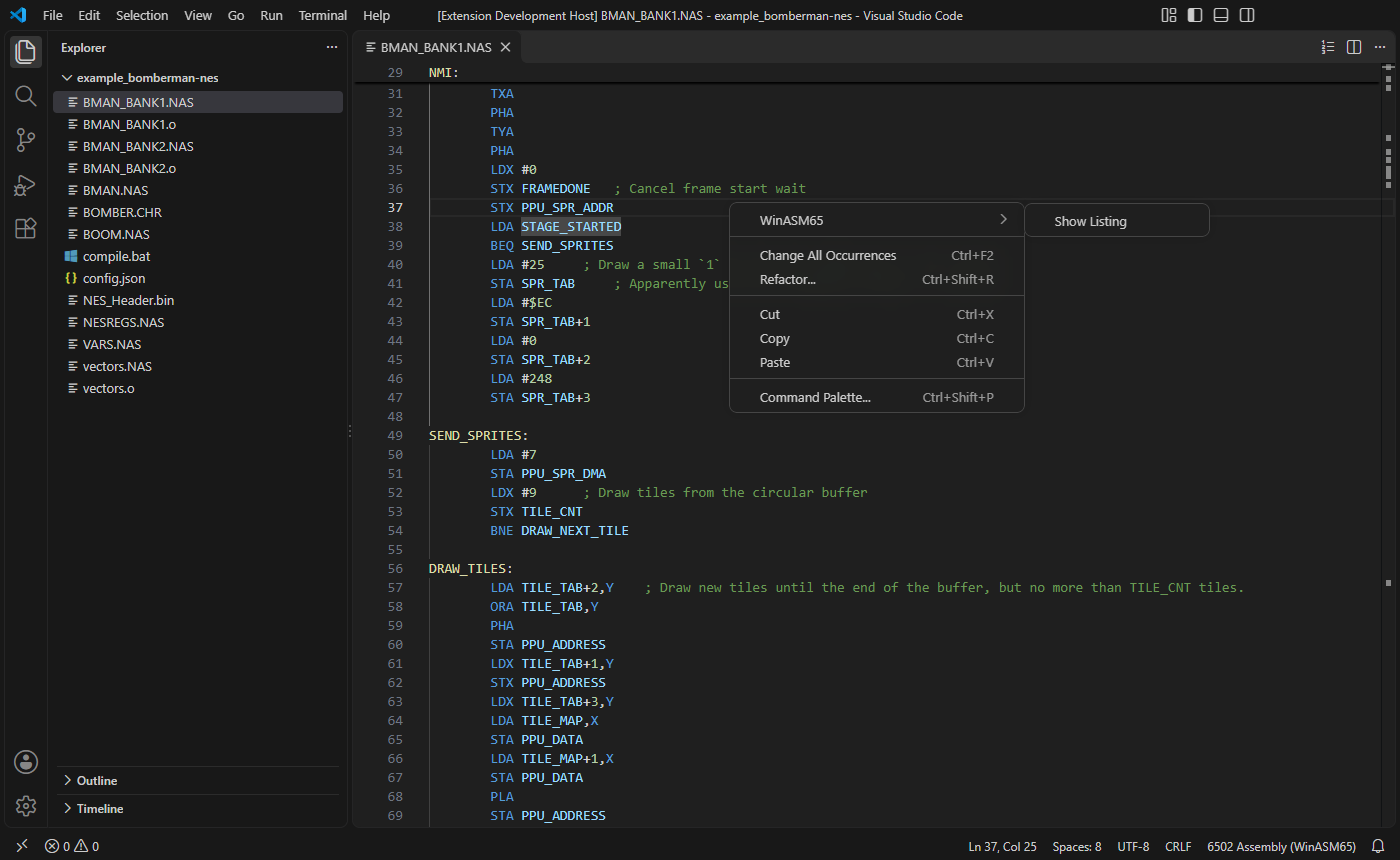
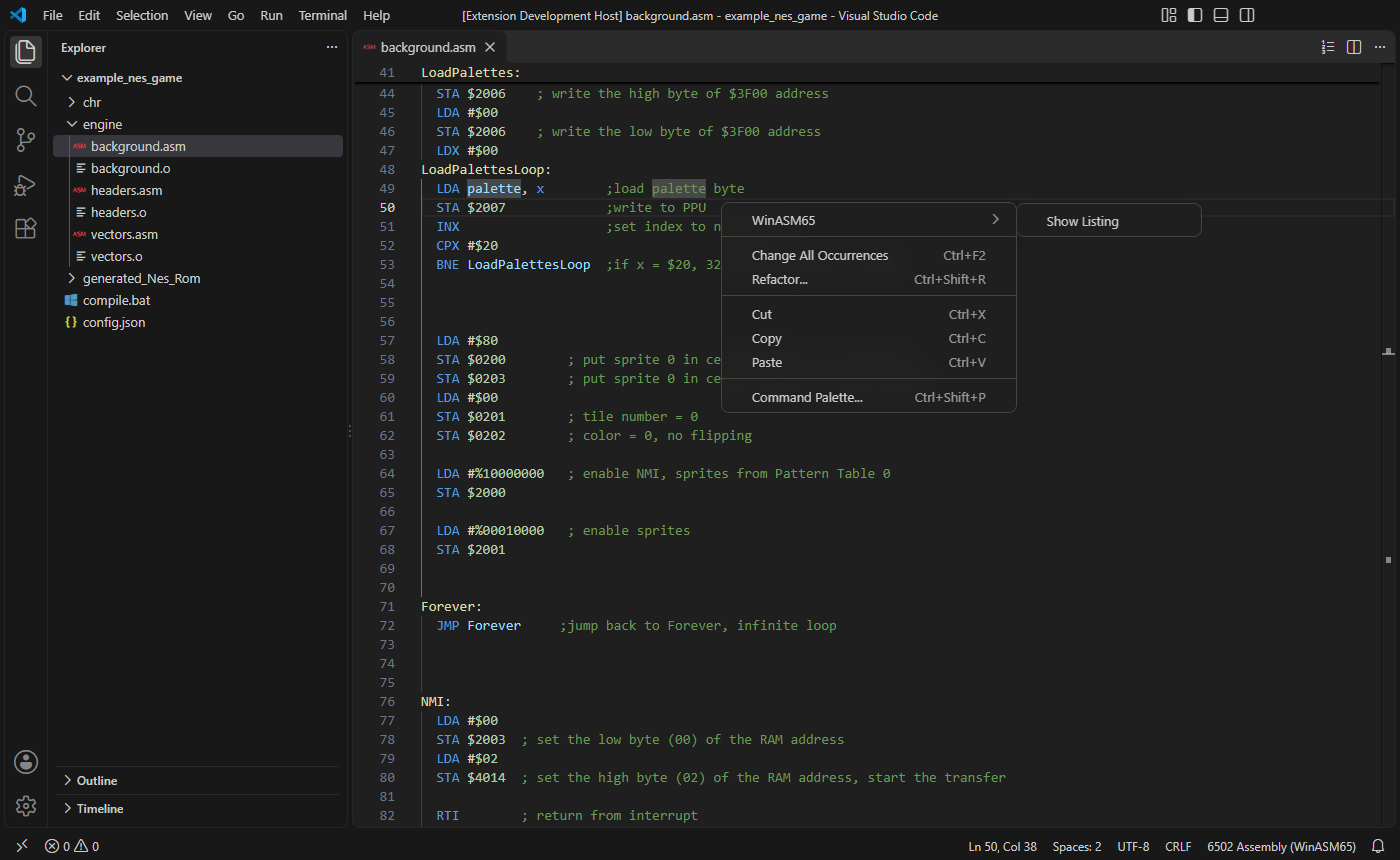
docs(site): screenshots and examples on example_nes_game instead of Bomberman
The scripts drive the NES example (background.asm, breakpoint in NMI at
$C073) and the pages describe the new pictures. The hover is opened with
its keyboard shortcut so the pointer never closes it.

diff --git a/docs/site/monitor.html b/docs/site/monitor.html
@@ -40,7 +40,7 @@
 
     <figure class="shot">
       <a href="img/monitor-tui.png"><img src="img/monitor-tui.png" alt="The terminal monitor connected to Mesen2 2.1.1: status line, file tree, source and listing, RAM and ROM panes"></a>
-      <figcaption>The monitor on the Bomberman example, started with <code>--emulator mesen2</code>. The status line reads: host <code>Mesen2 2.1.1</code>, <code>connected</code>, <code>RAM: Live</code> (the bridge is pushing RAM changes), <code>RUNNING</code>, <code>caps: full control</code>, then the program counter, the registers, the cycle count and the breakpoint count. Below: the file tree, the source with its listing gutter (address, bytes, cycles), and the RAM ($0000–$3FFF) and ROM ($8000–$FFFF) panes.</figcaption>
+      <figcaption>The monitor on the NES example (<code>example_nes_game</code>), started with <code>--emulator mesen2</code>. The status line reads: host <code>Mesen2 2.1.1</code>, <code>connected</code>, <code>RAM: Live</code> (the bridge is pushing RAM changes), <code>RUNNING</code>, <code>caps: full control</code>, then the program counter, the registers, the cycle count and the breakpoint count. Below: the file tree, the source with its listing gutter (address, bytes, cycles), and the RAM ($0000–$3FFF) and ROM ($8000–$FFFF) panes.</figcaption>
     </figure>
 
     <h2 id="projects">Three projects</h2>
@@ -197,7 +197,7 @@
     <p>When no bridge answers, the monitor still starts, on <code>DummyBridgeBackend</code>: name <code>Dummy 0.0</code>, reads return zeros, writes and execution commands are ignored, <code>IsConnected</code> is false. It does not implement <code>IExecutionAdapter</code>, so its capability set is <code>None</code> and the status line says <code>caps: nothing measured</code>.</p>
 
     <h2 id="startup">Starting the monitor</h2>
-    <pre><code>WinASM65.Monitor --emulator mesen2 --mesen C:\Mesen2\Mesen.exe --rom bomber.nes --source BMAN_BANK1.NAS
+    <pre><code>WinASM65.Monitor --emulator mesen2 --mesen C:\Mesen2\Mesen.exe --rom generated_Nes_Rom/game.nes --source engine/background.asm
 WinASM65.Monitor --port 45678          # attach to a bridge that is already listening
 WinASM65.Monitor --repl &lt; commands.txt # line mode</code></pre>
     <div class="table-wrap">
@@ -257,10 +257,10 @@ WinASM65.Monitor --repl &lt; commands.txt # line mode</code></pre>
         <tr><td><code>STATUS</code></td><td><code>OK running</code> or <code>OK stopped &lt;stop&gt;</code></td><td>yes</td><td><code>ERR unknown command</code></td></tr>
         <tr><td><code>READ $addr len</code></td><td><code>OK &lt;hex&gt;</code>; len ≤ 4096</td><td>yes</td><td>yes</td></tr>
         <tr><td><code>WRITE $addr hex</code></td><td><code>OK</code>, after reading the bytes back; <code>ERR write not observable at $…</code> otherwise (PRG ROM drops writes)</td><td>yes</td><td>yes</td></tr>
-        <tr><td><code>CPU</code></td><td><code>OK pc=$C01A a=… x=… y=… sp=… ps=… cycles=…</code></td><td>yes</td><td>refused by the host (<code>emu.getCpuState</code> does not exist)</td></tr>
+        <tr><td><code>CPU</code></td><td><code>OK pc=$C073 a=… x=… y=… sp=… ps=… cycles=…</code></td><td>yes</td><td>refused by the host (<code>emu.getCpuState</code> does not exist)</td></tr>
         <tr><td><code>ROM</code> · <code>ROM LOAD path</code></td><td>cartridge fields as <code>key=value</code>; load a new image</td><td><code>ROM</code> yes; <code>ROM LOAD</code> only if the host has <code>emu.loadRom</code></td><td><code>ROM</code> yes</td></tr>
         <tr><td><code>PAUSE</code> · <code>RESUME</code> · <code>STEP</code> · <code>RESET</code></td><td><code>OK</code></td><td>yes</td><td><code>ERR … unavailable: &lt;measured reason&gt;</code></td></tr>
-        <tr><td><code>BREAK SET|REMOVE kind $addr</code>, <code>BREAK LIST</code>, <code>BREAK CLEAR</code></td><td><code>OK</code>; <code>LIST</code> gives <code>exec $C01A, …</code> or <code>none</code></td><td>yes</td><td><code>ERR BREAK unavailable: …</code></td></tr>
+        <tr><td><code>BREAK SET|REMOVE kind $addr</code>, <code>BREAK LIST</code>, <code>BREAK CLEAR</code></td><td><code>OK</code>; <code>LIST</code> gives <code>exec $C073, …</code> or <code>none</code></td><td>yes</td><td><code>ERR BREAK unavailable: …</code></td></tr>
         <tr><td><code>STATE SAVE</code> · <code>STATE LOAD hex</code></td><td><code>OK &lt;hex&gt;</code> · <code>OK</code>; ≤ 128 KiB</td><td>yes</td><td>yes</td></tr>
       </tbody>
     </table>
@@ -344,16 +344,16 @@ WinASM65.Monitor --repl &lt; commands.txt # line mode</code></pre>
         <rect class="box-c" x="614" y="335" width="12" height="315" rx="2"/>
 
         <path class="line" d="M100,110 L318,110" marker-end="url(#arrow-s)"/>
-        <text x="210" y="103" text-anchor="middle" font-size="12">AddBreakpoint($C01A, exec)</text>
+        <text x="210" y="103" text-anchor="middle" font-size="12">AddBreakpoint($C073, exec)</text>
         <path class="line" d="M320,145 L618,145" marker-end="url(#arrow-s)"/>
-        <text x="470" y="138" text-anchor="middle" font-size="12">BREAK SET exec $C01A</text>
+        <text x="470" y="138" text-anchor="middle" font-size="12">BREAK SET exec $C073</text>
         <path class="line" d="M620,180 L868,180" marker-end="url(#arrow-s)"/>
         <text x="745" y="173" text-anchor="middle" font-size="12">emu.addMemoryCallback(exec)</text>
         <path class="line" d="M620,215 L322,215" marker-end="url(#arrow-s)"/>
         <text x="470" y="208" text-anchor="middle" font-size="12">OK</text>
 
         <rect class="box-a" x="790" y="236" width="160" height="24" rx="5"/>
-        <text x="870" y="252" text-anchor="middle" font-size="12">opcode fetch at $C01A</text>
+        <text x="870" y="252" text-anchor="middle" font-size="12">opcode fetch at $C073</text>
 
         <path class="line" d="M870,295 L622,295" marker-end="url(#arrow-s)"/>
         <text x="745" y="274" text-anchor="middle" font-size="12">exec callback fires:</text>
@@ -365,7 +365,7 @@ WinASM65.Monitor --repl &lt; commands.txt # line mode</code></pre>
         <path class="line" d="M614,370 L322,370" marker-end="url(#arrow-s)"/>
         <text x="470" y="363" text-anchor="middle" font-size="12">PUSH RAM $addr:byte … (pending writes)</text>
         <path class="line" d="M614,405 L322,405" marker-end="url(#arrow-s)"/>
-        <text x="470" y="398" text-anchor="middle" font-size="12">PUSH STOPPED reason=breakpoint pc=$C01A prg=…</text>
+        <text x="470" y="398" text-anchor="middle" font-size="12">PUSH STOPPED reason=breakpoint pc=$C073 prg=…</text>
         <path class="line" d="M320,440 L102,440" marker-end="url(#arrow-s)"/>
         <text x="210" y="433" text-anchor="middle" font-size="12">Stopped(StopInfo)</text>
         <text x="210" y="456" text-anchor="middle" class="muted" font-size="11">on the receiver thread</text>
@@ -375,7 +375,7 @@ WinASM65.Monitor --repl &lt; commands.txt # line mode</code></pre>
         <path class="line" d="M320,515 L612,515" marker-end="url(#arrow-s)"/>
         <text x="470" y="508" text-anchor="middle" font-size="12">CPU, READ $addr len</text>
         <path class="line" d="M614,545 L322,545" marker-end="url(#arrow-s)"/>
-        <text x="470" y="538" text-anchor="middle" font-size="12">OK pc=$C01A a=… cycles=… · OK &lt;hex&gt;</text>
+        <text x="470" y="538" text-anchor="middle" font-size="12">OK pc=$C073 a=… cycles=… · OK &lt;hex&gt;</text>
 
         <path class="line" d="M100,580 L318,580" marker-end="url(#arrow-s)"/>
         <text x="210" y="573" text-anchor="middle" font-size="12">Resume()</text>
@@ -444,7 +444,7 @@ WinASM65.Monitor --repl &lt; commands.txt # line mode</code></pre>
         <tr><td>Files</td><td><code>FileTreePane</code>, <code>FileTreeModel</code></td><td>Sections <em>sources</em>, <em>project files</em>, <em>ROM images</em>, <em>units</em>; activating a source opens it; right-click opens a menu.</td></tr>
         <tr><td>Editor</td><td><code>SourceEditorTabs</code>, <code>SourceEditorPane</code>, <code>SourceDocument</code>, <code>ListingFormatter</code>, <code>AssemblerSyntaxHighlighter</code>, <code>JsonSyntaxHighlighter</code></td><td>One tab per file; an editable source with a read-only gutter of address, bytes and cycles. Saving keeps the file's encoding and line endings.</td></tr>
         <tr><td>Memory</td><td><code>RamPane</code>, <code>RamDump</code>, <code>RamEditing</code>, <code>RomPane</code></td><td>RAM $0000–$3FFF with the zero page and stack marked, refreshed from <code>RamChanged</code>; ROM $8000–$FFFF. <code>RamEditing</code> holds write-and-verify logic for in-place edits of $0000–$3FFF; only the tests call it so far.</td></tr>
-        <tr><td>Commands</td><td><code>EditorCommands</code>, <code>StateCommands</code></td><td>Build the exact lines the keys send, e.g. <code>BREAK SET exec $C01A</code>, so tests can assert them.</td></tr>
+        <tr><td>Commands</td><td><code>EditorCommands</code>, <code>StateCommands</code></td><td>Build the exact lines the keys send, e.g. <code>BREAK SET exec $C073</code>, so tests can assert them.</td></tr>
         <tr><td>Capabilities</td><td><code>ShellKey</code>, <code>ShellCapabilities</code>, <code>Shortcut</code></td><td>Which key needs which capability, and the refusal wording.</td></tr>
         <tr><td>Theme</td><td><code>ShellTheme</code>, <code>ShellColorScheme</code>, <code>theme.json</code>, <code>ThemeRole</code> (Core)</td><td>A colour per role plus a 16-colour fallback. A broken file never replaces a working palette, and an unknown role is reported.</td></tr>
       </tbody>
@@ -505,7 +505,7 @@ WinASM65.Monitor --repl &lt; commands.txt # line mode</code></pre>
     </ul>
 
     <figure class="shot">
-      <a href="img/mesen2.png"><img src="img/mesen2.png" alt="The Mesen2 window running Bomberman"></a>
+      <a href="img/mesen2.png"><img src="img/mesen2.png" alt="The Mesen2 window running the NES example"></a>
       <figcaption>Mesen2 2.1.1 as <code>BridgeLauncher</code> starts it: its normal window, with the ROM loaded and <code>bridge_mesen2.lua</code> running.</figcaption>
     </figure>
 

diff --git a/docs/site/vscode.html b/docs/site/vscode.html
@@ -34,8 +34,8 @@
     </aside>
 
     <figure class="shot">
-      <a href="img/vscode-editor.png"><img src="img/vscode-editor.png" alt="VS Code with the Bomberman example open: the Explorer lists the .NAS sources and config.json, the editor shows BMAN_BANK1.NAS with mnemonics, labels, numbers and comments coloured"></a>
-      <figcaption>The Bomberman example in VS Code. <code>.nas</code> and <code>.asm</code> files open as “6502 Assembly (WinASM65)”, shown at the right of the status bar.</figcaption>
+      <a href="img/vscode-editor.png"><img src="img/vscode-editor.png" alt="VS Code with the NES example open: the Explorer lists the engine sources and config.json, the editor shows background.asm with mnemonics, labels, numbers and comments coloured"></a>
+      <figcaption>The NES example (<code>example_nes_game</code>) in VS Code. <code>.nas</code> and <code>.asm</code> files open as “6502 Assembly (WinASM65)”, shown at the right of the status bar.</figcaption>
     </figure>
 
     <h2 id="install">Install</h2>
@@ -80,11 +80,11 @@ code --install-extension winasm65-win32-x64-0.3.2.vsix --force</code></pre>
     <p>The language server answers hovers with a card laid out like a JSDoc hover. It is computed from the unsaved text, so it is right while you type.</p>
     <div class="grid-2">
       <figure class="shot">
-        <a href="img/vscode-hover-instruction.png"><img src="img/vscode-hover-instruction.png" alt="Hover card on LDA STAGE_STARTED: LDA — Load A, @mode zero page, @cycles 3, @bytes 2 — A5 60 at $C026, @flags N Z, and a table of the eight LDA forms with the zero-page form marked"></a>
+        <a href="img/vscode-hover-instruction.png"><img src="img/vscode-hover-instruction.png" alt="Hover card on LDA palette, x: LDA — Load A, @mode absolute,X, @cycles 4 (+1 if a page is crossed), @bytes 3 — BD 7E C0 at $C04B, @flags N Z, and a table of the eight LDA forms with the absolute,X form marked"></a>
         <figcaption>On a mnemonic (or anywhere on an instruction line that is not a name): what it does, the form this line assembled to with its cycles, bytes and address, the flags it changes, and every form of the instruction. ◀ marks the one used.</figcaption>
       </figure>
       <figure class="shot">
-        <a href="img/vscode-hover-symbol.png"><img src="img/vscode-hover-symbol.png" alt="Hover card on the name STAGE_STARTED: STAGE_STARTED = $60, @value $0060 (96), then the line LDA STAGE_STARTED with @cycles 3 cycles and @bytes 2 — A5 60 at $C026"></a>
+        <a href="img/vscode-hover-symbol.png"><img src="img/vscode-hover-symbol.png" alt="Hover card on the name palette: palette = $C07E, @value $C07E (49278), then the line LDA palette, x with @cycles 4 cycles and @bytes 3 — BD 7E C0 at $C04B"></a>
         <figcaption>On a name: its value in hex and decimal, then the line it is read on, with what that line assembled to.</figcaption>
       </figure>
     </div>
@@ -92,7 +92,7 @@ code --install-extension winasm65-win32-x64-0.3.2.vsix --force</code></pre>
 
     <h2 id="diagnostics">Diagnostics</h2>
     <figure class="shot">
-      <a href="img/vscode-diagnostics.png"><img src="img/vscode-diagnostics.png" alt="Three errors underlined in BMAN_BANK1.NAS, unsaved, and listed in the Problems panel: LDX does not support indirect indexed (zp),Y addressing; Malformed expression '(1+'; Undefined symbol: NOWHERE"></a>
+      <a href="img/vscode-diagnostics.png"><img src="img/vscode-diagnostics.png" alt="Three errors underlined in background.asm, unsaved, and listed in the Problems panel: LDX does not support indirect indexed (zp),Y addressing; Malformed expression '(1+'; Undefined symbol: NOWHERE"></a>
       <figcaption>Errors appear as you type, before the file is saved. Each names the rule that was broken.</figcaption>
     </figure>
     <ul>
@@ -110,7 +110,7 @@ code --install-extension winasm65-win32-x64-0.3.2.vsix --force</code></pre>
         <figcaption>Right-click → <strong>WinASM65</strong> → <strong>Show Listing</strong>. The same submenu is in the Explorer and the line-number margin; a button in the editor title bar does the same.</figcaption>
       </figure>
       <figure class="shot">
-        <a href="img/vscode-listing.png"><img src="img/vscode-listing.png" alt="BMAN_BANK1.NAS with a grey column left of the source: C01C 48, C01D 98, C026 A5 60, C023 8D 03 20 and so on, blank on labels and empty lines"></a>
+        <a href="img/vscode-listing.png"><img src="img/vscode-listing.png" alt="background.asm with a grey column left of the source: C04B BD 7E C0, C04E 8D 07 20, C051 E8 and so on, blank on labels and empty lines"></a>
         <figcaption>Each line shows the address and the bytes it assembled to, as in a <code>.lst</code> file. Lines without code get a blank column, so the source stays aligned.</figcaption>
       </figure>
     </div>
@@ -124,7 +124,7 @@ code --install-extension winasm65-win32-x64-0.3.2.vsix --force</code></pre>
 
     <h2 id="build">Build task</h2>
     <figure class="shot">
-      <a href="img/vscode-build.png"><img src="img/vscode-build.png" alt="The terminal panel running the task build config.json: WinASM65.Tooling.exe --build …\config.json, then built …\bomber.nes (24592 bytes)"></a>
+      <a href="img/vscode-build.png"><img src="img/vscode-build.png" alt="The terminal panel running the task build config.json: WinASM65.Tooling.exe --build …\config.json, then built …\generated_Nes_Rom/game.nes (24592 bytes)"></a>
       <figcaption><strong>Terminal › Run Build Task</strong> offers “build config.json” for each project in the workspace. It runs <code>WinASM65.Tooling --build</code>; errors go to the Problems panel.</figcaption>
     </figure>
     <p><code>BuildTaskProvider</code> finds up to 20 <code>config.json</code> files (outside <code>node_modules</code>) and offers one task per file, named <code>build &lt;relative path&gt;</code>, in the Build group, run in the project's directory. The output is <code>file:line: error: message</code>, which the <code>$winasm65</code> problem matcher turns into problems. A task can also be written in <code>tasks.json</code>:</p>
@@ -137,12 +137,12 @@ code --install-extension winasm65-win32-x64-0.3.2.vsix --force</code></pre>
 
     <h2 id="debug">Debugging</h2>
     <figure class="shot">
-      <a href="img/vscode-debug.png"><img src="img/vscode-debug.png" alt="VS Code paused on line 30 of BMAN_BANK1.NAS (PHA after NMI:). Variables shows Registers, Flags and Zero page; Call Stack shows NMI BMAN_BANK1.NAS 30:1, paused on breakpoint; the RAM panel is on the right; the debug console shows building, built 3 unit(s), 6130 mapped line(s), starting Mesen.exe on port 62629, connected to Mesen2 2.1.1"></a>
+      <a href="img/vscode-debug.png"><img src="img/vscode-debug.png" alt="VS Code paused on line 77 of background.asm (LDA #$00 after NMI:). Variables shows Registers (PC = $C073) and Flags; Call Stack shows NMI background.asm 77:1, paused on breakpoint; the RAM panel is on the right; the debug console shows building, built 3 unit(s), 68 mapped line(s), starting Mesen.exe, connected to Mesen2 2.1.1"></a>
       <figcaption>Paused on a breakpoint in the NMI handler. Left: Registers, Flags and Zero page, and a one-frame call stack named after the nearest label. Right: the RAM panel. Bottom: the debug console's account of the launch.</figcaption>
     </figure>
     <div class="grid-2">
       <figure class="shot">
-        <a href="img/mesen2.png"><img src="img/mesen2.png" alt="The Mesen2 window running Bomberman, title screen"></a>
+        <a href="img/mesen2.png"><img src="img/mesen2.png" alt="The Mesen2 window running the NES example: one sprite on a black screen"></a>
         <figcaption>The game runs in Mesen2's own window, with the WinASM65 bridge script loaded.</figcaption>
       </figure>
       <div>

diff --git a/docs/site/tooling.html b/docs/site/tooling.html
@@ -128,7 +128,7 @@
 
     <h2 id="build">Build mode</h2>
     <p><code>--build &lt;config.json&gt;</code> builds a project the way the debugger does (<code>ProjectSession.Open(config).Build</code> with <code>WriteImage = true</code>) and prints one line per diagnostic, in the form the extension's <code>$winasm65</code> problem matcher reads:</p>
-<pre><code>c:\…\example_bomberman-nes\BMAN_BANK1.NAS:35: error: LDX does not support indirect indexed (zp),Y addressing
+<pre><code>c:\…\example_nes_game\engine\background.asm:48: error: LDX does not support indirect indexed (zp),Y addressing
 build failed: 1 error(s)</code></pre>
     <div class="table-wrap">
     <table>
@@ -183,7 +183,7 @@ build failed: 1 error(s)</code></pre>
     </div>
 
     <h3 id="sequence">A launch and a breakpoint hit</h3>
-    <p>The exchange when you press F5 on the Bomberman example with a breakpoint on line 30 of <code>BMAN_BANK1.NAS</code>, the first instruction of <code>NMI</code> at <code>$C01A</code>:</p>
+    <p>The exchange when you press F5 on the NES example with a breakpoint on line 77 of <code>engine/background.asm</code>, the first instruction of <code>NMI</code> at <code>$C073</code>:</p>
     <div class="figure">
       <svg viewBox="0 0 900 740" role="img" aria-label="Sequence diagram: VS Code sends initialize and launch; the adapter builds the project, starts Mesen2 with the bridge, connects, pauses the machine and sends initialized; VS Code sets breakpoints, which become BREAK SET commands, then sends configurationDone, which becomes RESET; later the bridge pushes STOPPED, the adapter sends a stopped event, and VS Code asks for the stack trace and variables, which become CPU and READ commands.">
         <defs>
@@ -224,9 +224,9 @@ build failed: 1 error(s)</code></pre>
         <text x="282" y="332" text-anchor="middle" font-size="13">launch response + initialized</text>
 
         <path class="line" d="M115,372 L450,372" marker-end="url(#arrow-s)"/>
-        <text x="282" y="366" text-anchor="middle" font-size="13">setBreakpoints { BMAN_BANK1.NAS, [30] }</text>
+        <text x="282" y="366" text-anchor="middle" font-size="13">setBreakpoints { background.asm, [77] }</text>
         <path class="line" d="M450,404 L785,404" marker-end="url(#arrow-s)"/>
-        <text x="617" y="398" text-anchor="middle" font-size="13">BREAK SET exec $C01A</text>
+        <text x="617" y="398" text-anchor="middle" font-size="13">BREAK SET exec $C073</text>
         <path class="line" d="M115,438 L450,438" marker-end="url(#arrow-s)"/>
         <text x="282" y="432" text-anchor="middle" font-size="13">configurationDone</text>
         <path class="line" d="M450,470 L785,470" marker-end="url(#arrow-s)"/>
@@ -235,7 +235,7 @@ build failed: 1 error(s)</code></pre>
         <text x="785" y="500" text-anchor="middle" font-size="12" class="muted">… the game runs …</text>
 
         <path class="line" d="M785,530 L450,530" marker-end="url(#arrow-s)" stroke-dasharray="5 4"/>
-        <text x="617" y="524" text-anchor="middle" font-size="13">PUSH STOPPED reason=breakpoint pc=$C01A prg=…</text>
+        <text x="617" y="524" text-anchor="middle" font-size="13">PUSH STOPPED reason=breakpoint pc=$C073 prg=…</text>
         <path class="line" d="M450,562 L115,562" marker-end="url(#arrow-s)"/>
         <text x="282" y="556" text-anchor="middle" font-size="13">stopped { breakpoint, hitBreakpointIds }</text>
         <path class="line" d="M115,596 L450,596" marker-end="url(#arrow-s)"/>
@@ -243,7 +243,7 @@ build failed: 1 error(s)</code></pre>
         <path class="line" d="M450,628 L785,628" marker-end="url(#arrow-s)"/>
         <text x="617" y="622" text-anchor="middle" font-size="13">CPU, READ</text>
         <path class="line" d="M450,662 L115,662" marker-end="url(#arrow-s)"/>
-        <text x="282" y="656" text-anchor="middle" font-size="13">frame NMI, BMAN_BANK1.NAS:30, registers</text>
+        <text x="282" y="656" text-anchor="middle" font-size="13">frame NMI, background.asm:77, registers</text>
 
         <text x="20" y="716" class="muted" font-size="12">Dashed: a message the bridge sends on its own. It arrives on the receiver thread and is queued to the session loop.</text>
       </svg>
@@ -270,7 +270,7 @@ build failed: 1 error(s)</code></pre>
         <tr><td><code>setExceptionBreakpoints</code></td><td>Accepted with an empty list: the 6502 has no exceptions to break on.</td></tr>
         <tr><td><code>configurationDone</code></td><td>Starts the program (launch) or reports the machine as it is (attach).</td></tr>
         <tr><td><code>threads</code></td><td>One thread, id 1, named <code>6502</code>.</td></tr>
-        <tr><td><code>stackTrace</code></td><td>One frame: the source line of the PC from <code>SourceMap.Resolve(pc, prgOffset)</code>, named after the nearest label (<code>NMI</code>, <code>NMI+2</code>), or <code>$C01A</code> when no label precedes it. “(bank unknown)” is appended when the PC maps to several banks and the stop gave no PRG offset. A PC with no source gets a <code>subtle</code> frame without a source. The frame carries <code>instructionPointerReference</code>.</td></tr>
+        <tr><td><code>stackTrace</code></td><td>One frame: the source line of the PC from <code>SourceMap.Resolve(pc, prgOffset)</code>, named after the nearest label (<code>NMI</code>, <code>NMI+2</code>), or <code>$C073</code> when no label precedes it. “(bank unknown)” is appended when the PC maps to several banks and the stop gave no PRG offset. A PC with no source gets a <code>subtle</code> frame without a source. The frame carries <code>instructionPointerReference</code>.</td></tr>
         <tr><td><code>scopes</code></td><td><code>Registers</code> (hint <code>registers</code>), <code>Flags</code>, and <code>Zero page</code> (marked expensive, so VS Code reads it only when expanded).</td></tr>
         <tr><td><code>variables</code></td><td>Registers: <code>PC</code>, <code>A</code>, <code>X</code>, <code>Y</code>, <code>SP</code>, <code>PS</code> (with a flag string such as <code>Nv-bdIzC</code>, upper case = set), <code>cycles</code>. Flags: <code>N V B D I Z C</code> as 0 or 1 (bit 5 is skipped). Zero page: 16 rows of 16 bytes. <code>PC</code>, <code>SP</code> (as <code>$0100+SP</code>) and each zero-page row carry a <code>memoryReference</code>, which opens VS Code's hex memory view.</td></tr>
         <tr><td><code>continue</code></td><td>Clears temporary breakpoints, resumes.</td></tr>
@@ -366,7 +366,7 @@ build failed: 1 error(s)</code></pre>
     <p>The assembled form is found by matching the row's first byte and length against <code>InstructionDocs</code> and checking that the mnemonic is written on the line, so a <code>.byte $A9, $01</code> row is not mistaken for <code>LDA #$01</code>. Screenshots are on the <a href="vscode.html#hover">VS Code page</a>.</p>
 
     <h3 id="listing">The <code>winasm65/listing</code> request</h3>
-<pre><code>→ { "textDocument": { "uri": "file:///c%3A/…/BMAN_BANK1.NAS" } }
+<pre><code>→ { "textDocument": { "uri": "file:///c%3A/…/engine/background.asm" } }
 ← { "rows": [ { "line": 29, "address": 49178, "bytes": "48", "more": false }, … ] }</code></pre>
     <ul>
       <li>One row per source line that emitted bytes: the zero-based <code>line</code>, the <code>address</code> and <code>bytes</code> of its first emission, and <code>more</code> when the line emitted several times (a macro, a repeat).</li>

diff --git a/docs/site/cpus.html b/docs/site/cpus.html
@@ -386,8 +386,8 @@ Set(table, "BRA", AddressingMode.Relative, 0x80);
     </div>
     <p>The language server builds its instruction hover from both (<code>HoverCard.Instruction</code>): the description gives the title, summary and <code>@flags</code>; the form the line assembled to gives <code>@mode</code>, <code>@cycles</code> and <code>@bytes</code>; the table lists every form of the mnemonic on the project's CPU, with a ◀ on the one used. The assembled form is found by matching the listing row's first byte and length against <code>InstructionDocs.ForCpu</code> and checking the mnemonic is written on the line.</p>
     <figure class="shot">
-      <a href="img/vscode-hover-instruction.png"><img src="img/vscode-hover-instruction.png" alt="Hover card on LDA STAGE_STARTED: Load A, zero page form, 3 cycles, 2 bytes A5 60 at $C026, flags N Z, and a table of all eight LDA forms with opcodes, bytes and cycles"></a>
-      <figcaption>The hover of an <code>LDA</code> in the Bomberman example. The cycle column and the "+p" legend come from <code>CycleTimings</code>; the opcode and byte columns from the opcode table.</figcaption>
+      <a href="img/vscode-hover-instruction.png"><img src="img/vscode-hover-instruction.png" alt="Hover card on LDA palette, x: Load A, absolute,X form, 4 cycles plus one on a page crossing, 3 bytes BD 7E C0 at $C04B, flags N Z, and a table of all eight LDA forms with opcodes, bytes and cycles"></a>
+      <figcaption>The hover of an <code>LDA</code> in the NES example. The cycle column and the "+p" legend come from <code>CycleTimings</code>; the opcode and byte columns from the opcode table.</figcaption>
     </figure>
     <p><code>InstructionDocs.MnemonicsFor(cpu)</code> is also what <code>TextFormat/AssemblyLexer</code> classifies mnemonics against when it colours a line.</p>
 

diff --git a/docs/site/index.html b/docs/site/index.html
@@ -18,8 +18,8 @@
     </header>
 
     <figure class="shot">
-      <a href="img/vscode-debug.png"><img src="img/vscode-debug.png" alt="VS Code paused on a breakpoint in the Bomberman example, with the registers, the call stack and the RAM panel"></a>
-      <figcaption>The NES Bomberman example paused on a breakpoint in VS Code. The game runs in Mesen2; the RAM panel on the right shows the console's 2 KB of work RAM.</figcaption>
+      <a href="img/vscode-debug.png"><img src="img/vscode-debug.png" alt="VS Code paused on a breakpoint in the NES example, with the registers, the call stack and the RAM panel"></a>
+      <figcaption>The NES example (<code>example_nes_game</code>) paused on a breakpoint in its NMI handler. The program runs in Mesen2; the RAM panel on the right shows the console's 2 KB of work RAM.</figcaption>
     </figure>
 
     <h2 id="what">What it does</h2>

diff --git a/tools/screenshots/README.md b/tools/screenshots/README.md
@@ -12,7 +12,7 @@ powershell -ExecutionPolicy Bypass -File shoot-all.ps1 [-Mesen C:\path\to\Mesen.
 
 | Script | Takes |
 |---|---|
-| `shoot-vscode.mjs` | VS Code (the build `@vscode/test-electron` caches) with the extension under development, driven by Playwright on a clean copy of the Bomberman example: editor, hovers, context menu, listing column, diagnostics, build task, and with Mesen2 a debug session, the RAM panel and the emulator window |
+| `shoot-vscode.mjs` | VS Code (the build `@vscode/test-electron` caches) with the extension under development, driven by Playwright on a clean copy of the NES example (`example_nes_game`): editor, hovers, context menu, listing column, diagnostics, build task, and with Mesen2 a debug session, the RAM panel and the emulator window |
 | `shoot-pages.mjs` | The module viewer's report on `samples/lib.asm` + `samples/app.asm`, in Chromium |
 | `shoot-windows.ps1` | The command line and the terminal monitor, each in a classic console window |
 | `capture-window.ps1` | Captures one window to a PNG (used by the two above) |
